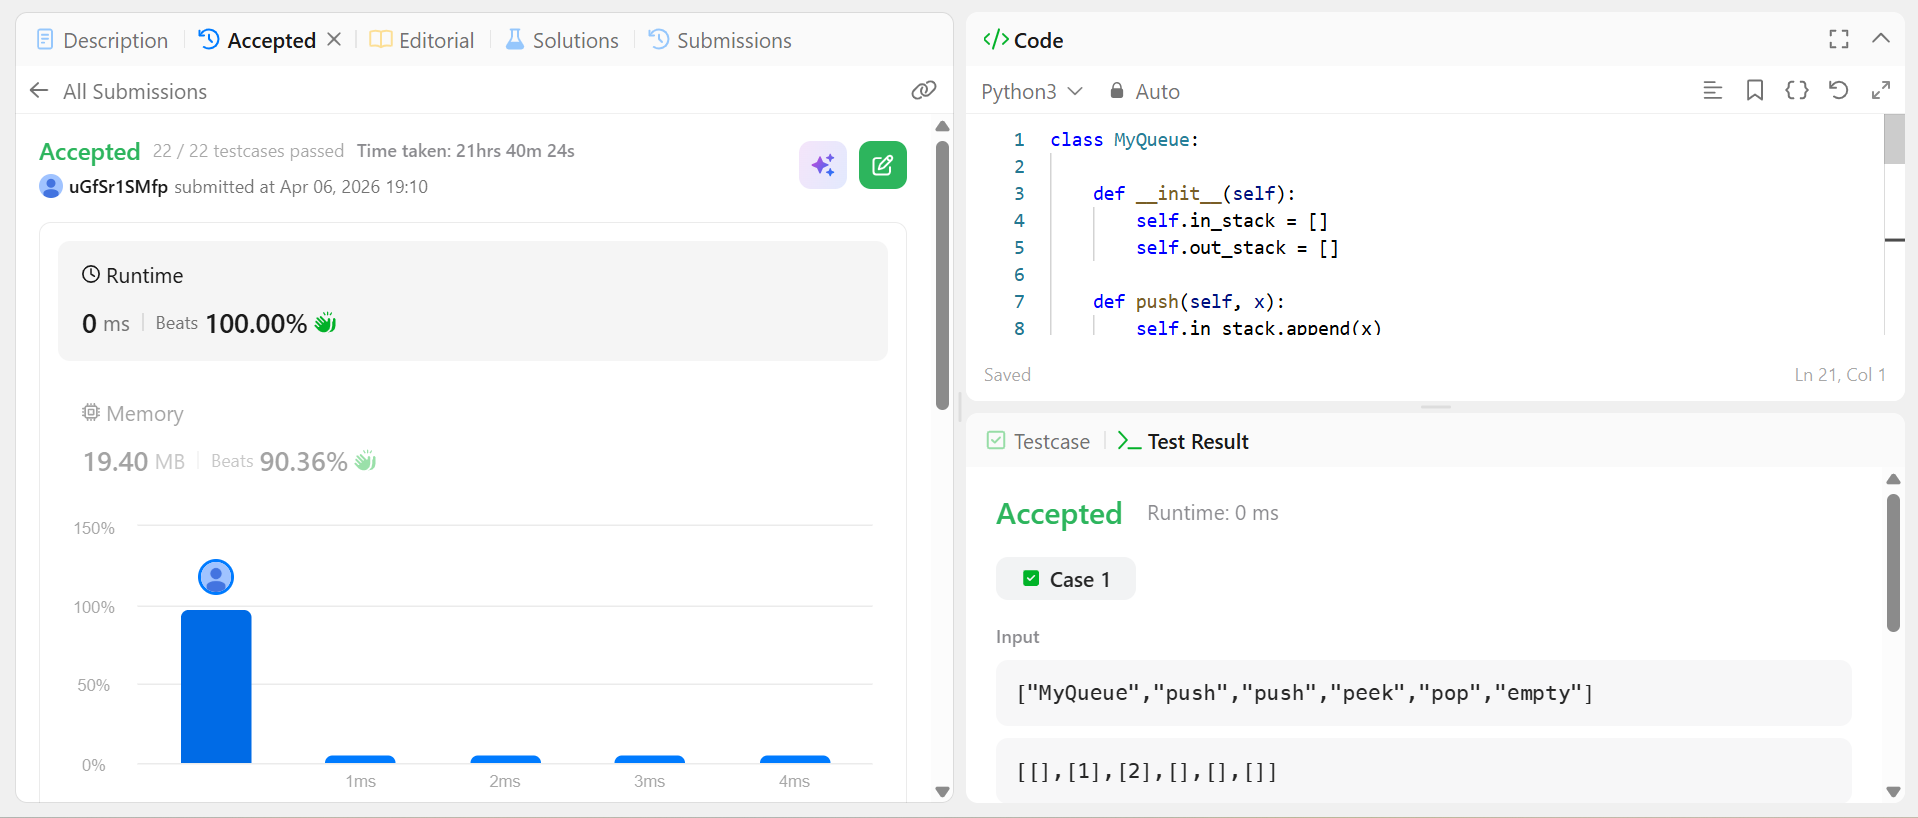
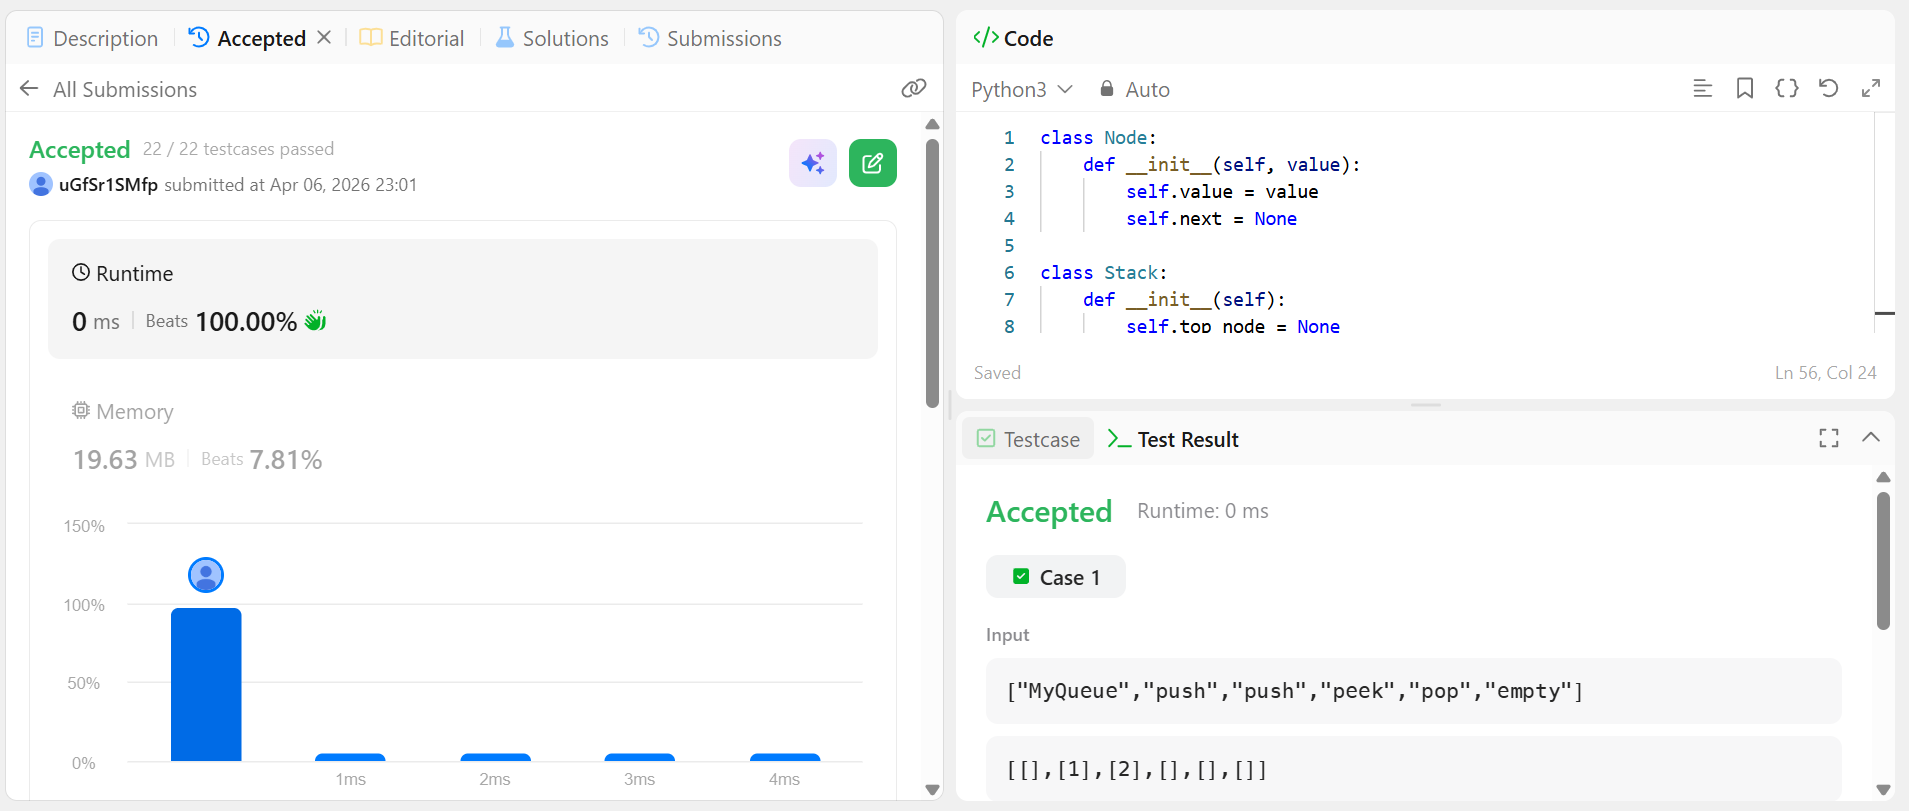
Add new right solution and screenshot for Implement Queue using Stacks

diff --git a/Implement_Queue_using_Stacks/Implement_Queue_using_Stacks.py b/Implement_Queue_using_Stacks/Implement_Queue_using_Stacks.py
@@ -1,26 +1,51 @@
-class MyQueue:
+class Node:
+    def __init__(self, value):
+        self.value = value
+        self.next = None
 
+class Stack:
     def __init__(self):
-        self.in_stack = []
-        self.out_stack = []
+        self.top_node = None
 
-    def push(self, x):
-        self.in_stack.append(x)
+    def push(self, value):
+        new_node = Node(value)
+        new_node.next = self.top_node
+        self.top_node = new_node
 
     def pop(self):
-        while not self.out_stack:
-            while self.in_stack:
-                self.out_stack.append(self.in_stack.pop())
-        return self.out_stack.pop()
+        value = self.top_node.value
+        self.top_node = self.top_node.next
+        return value
 
     def peek(self):
-        while not self.out_stack:
-            while self.in_stack:
-                self.out_stack.append(self.in_stack.pop())
-        return self.out_stack[-1]
+        return self.top_node.value
 
-    def empty(self):
-        return not self.in_stack and not self.out_stack
+    def is_empty(self):
+        return self.top_node is None
+
+
+class MyQueue:
+    def __init__(self):
+        self.in_stack = Stack()
+        self.out_stack = Stack()
+
+    def push(self, x: int) -> None:
+        self.in_stack.push(x)
+
+    def pop(self) -> int:
+        while self.out_stack.is_empty():
+            while not self.in_stack.is_empty():
+                self.out_stack.push(self.in_stack.pop())
+        return self.out_stack.pop()
+
+    def peek(self) -> int:
+        while self.out_stack.is_empty():
+            while not self.in_stack.is_empty():
+                self.out_stack.push(self.in_stack.pop())
+        return self.out_stack.peek()
+
+    def empty(self) -> bool:
+        return self.in_stack.is_empty() and self.out_stack.is_empty()
 
 
 # Your MyQueue object will be instantiated and called as such:
@@ -28,4 +53,4 @@ class MyQueue:
 # obj.push(x)
 # param_2 = obj.pop()
 # param_3 = obj.peek()
-# param_4 = obj.empty()
+# param_4 = obj.empty
